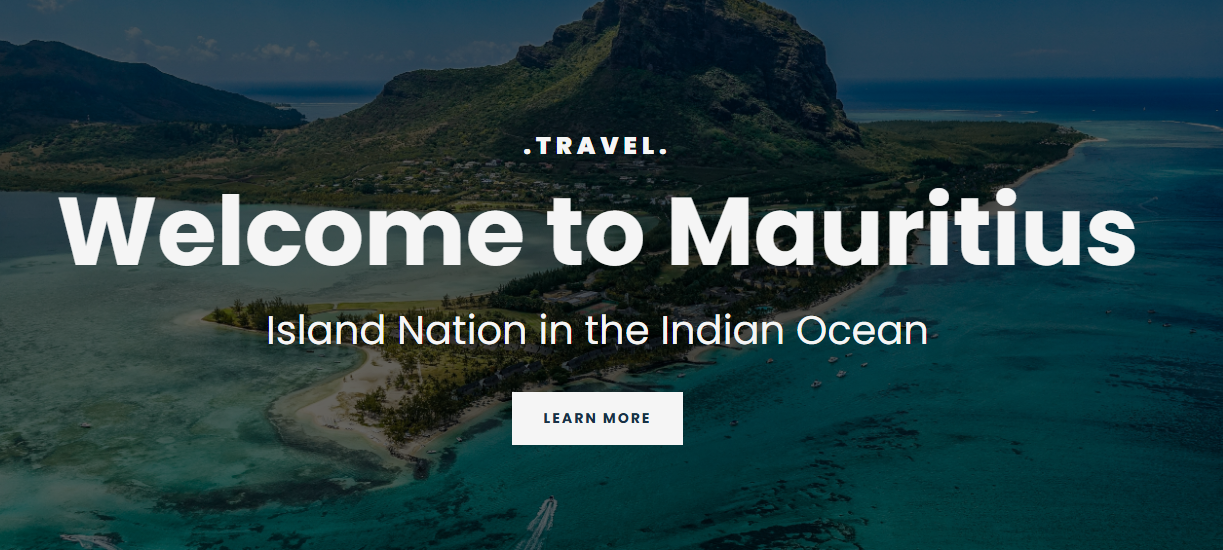
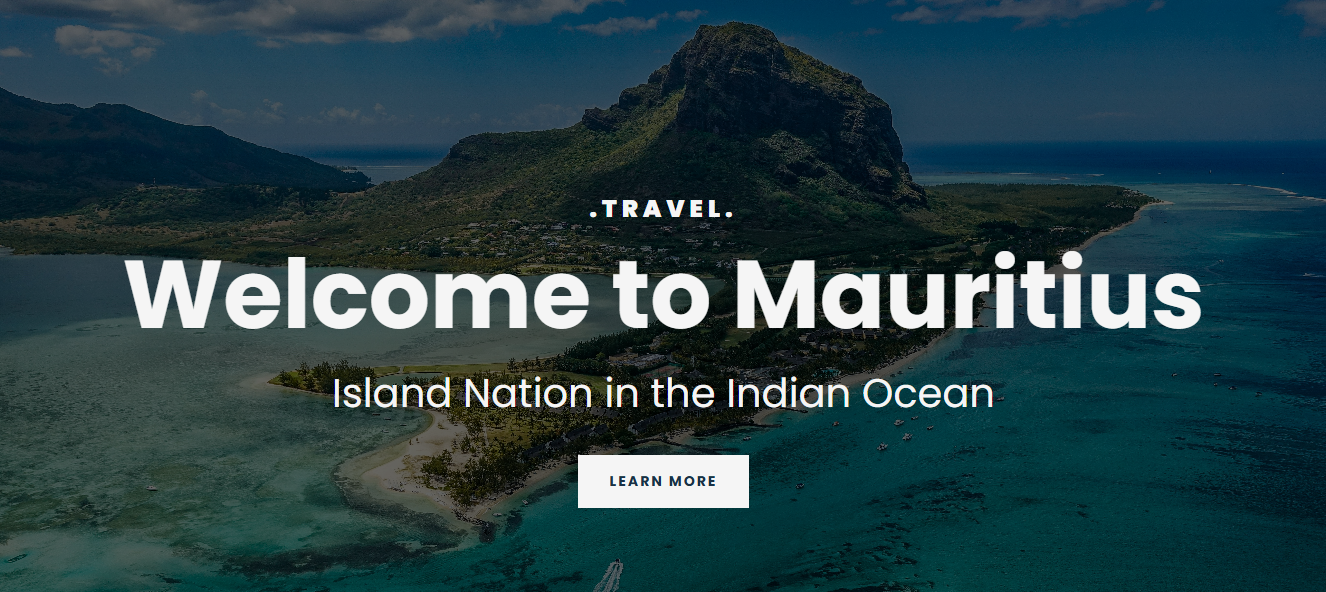
updated photo, added links on work pg, moved items on home pg

diff --git a/work.html b/work.html
@@ -56,42 +56,58 @@
         <h1 class="mb-5">Check out some of my recent projects👩💻</h1>
         <div class="row">
           <div class="col-md-6 mb-5">
-            <img
-              src="images/clock.png"
-              alt="screenshot of world clock app"
-              class="img-fluid"
-            />
+            <a
+              href="https://world-clock-lea-white.netlify.app/"
+              target="_blank"
+              title="Link to World Clock Project on Netlify"
+              ><img
+                src="images/clock.png"
+                alt="screenshot of world clock app"
+                class="img-fluid"
+            /></a>
             <h3 class="mt-3">World Clock Project</h3>
             <p class="text-muted">Built using HTML, CSS, Javascript</p>
           </div>
           <div class="col-md-6 mb-5">
-            <img
-              src="images/weather.png"
-              alt="screenshot of weather app"
-              class="img-fluid"
-            />
+            <a
+              href="https://lea-white-weather-project.netlify.app/"
+              target="_blank"
+              title="Link to Weather Project on Netlify"
+              ><img
+                src="images/weather.png"
+                alt="screenshot of weather app"
+                class="img-fluid"
+            /></a>
             <h3 class="mt-3">Weather Project</h3>
             <p class="text-muted">
               Built using HTML, CSS, and Javascript with API Integration
             </p>
           </div>
           <div class="col-md-6 mb-5">
-            <img
-              src="images/poem.png"
-              alt="screenshot of poetry generator app"
-              class="img-fluid"
-            />
+            <a
+              href="https://poem-generator-lea-white.netlify.app/"
+              target="_blank"
+              title="Link to AI Italian Poem Generator"
+              ><img
+                src="images/poem.png"
+                alt="screenshot of poetry generator app"
+                class="img-fluid"
+            /></a>
             <h3 class="mt-3">AI Poem Generator Project</h3>
             <p class="text-muted">
               Built using HTML, CSS, Javascript, and SheCodes AI
             </p>
           </div>
           <div class="col-md-6 mb-5">
-            <img
-              src="images/mauritius.png"
-              alt="screenshot of travel website"
-              class="img-fluid"
-            />
+            <a
+              href="https://mauritius-travel-page.netlify.app/"
+              target="_blank"
+              title="Link to Mauritius travel website on Netlify"
+              ><img
+                src="images/mauritius.png"
+                alt="screenshot of travel website"
+                class="img-fluid"
+            /></a>
             <h3 class="mt-3">Travel Website Project</h3>
             <p class="text-muted">
               Responsive website built using HTML, CSS, and Javascript

diff --git a/index.html b/index.html
@@ -63,30 +63,11 @@
       <div class="row mb-5">
         <div class="col d-none d-md-block">
           <img
-            src="images/mauritius.png"
-            alt="screenshot of mauritius website"
+            src="images/weather.png"
+            alt="screenshot of weather app"
             class="img-fluid"
           />
         </div>
-        <div class="col">
-          <div class="project-description">
-            <h2 class="mb-3">Travel Website - Republic of Mauritius</h2>
-            <p class="mb-5">
-              This website was created as part of the Responsive coding course.
-              It highlights the Republic of Mauritius for travel and information
-              purposes.
-            </p>
-            <a
-              href="https://mauritius-travel-page.netlify.app/"
-              class="btn btn-branding-solid"
-              target="_blank"
-              title="Link to Mauritius travel website on Netlify"
-              >Open Project</a
-            >
-          </div>
-        </div>
-      </div>
-      <div class="row mb-5">
         <div class="col">
           <div class="project-description">
             <h2 class="mb-3">Weather Project</h2>
@@ -103,11 +84,30 @@
             >
           </div>
         </div>
+      </div>
+      <div class="row mb-5">
+        <div class="col">
+          <div class="project-description">
+            <h2 class="mb-3">Travel Website</h2>
+            <p class="mb-5">
+              This website was created as part of the Responsive coding course.
+              It highlights the Republic of Mauritius for travel and information
+              purposes.
+            </p>
+            <a
+              href="https://mauritius-travel-page.netlify.app/"
+              class="btn btn-branding-solid"
+              target="_blank"
+              title="Link to Mauritius travel website on Netlify"
+              >Open Project</a
+            >
+          </div>
+        </div>
         <div class="col d-none d-md-block">
           <img
-            src="images/weather.png"
-            alt="screenshot of weather app"
-            class="img-fluid"
+            src="images/mauritius.png"
+            alt="screenshot of mauritius website"
+            class="img-fluid mt-5"
           />
         </div>
       </div>
